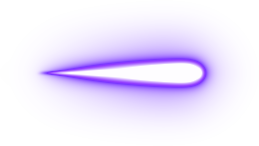
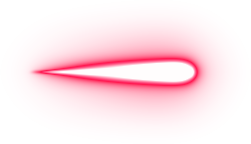
Added enemy projectile

Changed region(s): [[0.1116, 0.2222, 0.8645, 0.7778]]

diff --git a/game.py b/game.py
@@ -8,6 +8,7 @@ class Game:
         self.is_playing = False
         self.all_players = pygame.sprite.Group()
         self.player = Player(self)
+        self.enemy = Enemy(self)
         self.all_players.add(self.player)
         self.comet_event = CometFallEvent(self)
         self.all_enemies = pygame.sprite.Group()
@@ -26,6 +27,10 @@ class Game:
         self.player.health = self.player.max_health
         self.is_playing = False
 
+    def update_enemies_projectiles(self):
+        for enemy in self.all_enemies:
+            enemy.launch_enemies_projectile()
+
     def update(self, screen):
         # intégration de l'image du joueur
         screen.blit(self.player.image, self.player.rect)
@@ -41,15 +46,22 @@ class Game:
         for enemy in self.all_enemies:
             enemy.forward()
             enemy.update_health_bar(screen)
+
+        for enemy_projectile in self.enemy.all_enemies_projectiles:
+            enemy_projectile.move()
             
         for comet in self.comet_event.all_comets:
             comet.fall(screen)
 
-        # intégration de l'image du projectile
+        # intégration de l'image du projectile allié
         self.player.all_projectiles.draw(screen)
+
+        # intégration de l'image du projectile ennemi
+        self.enemy.all_enemies_projectiles.draw(screen)
 
         # intégration de l'image de l'ennemi
         self.all_enemies.draw(screen)
+        self.update_enemies_projectiles()
 
         # intégration de l'image de la comète
         self.comet_event.all_comets.draw(screen)

diff --git a/enemy_projectile.py b/enemy_projectile.py
@@ -1,0 +1,32 @@
+import pygame
+from pygame.sprite import Group
+
+# Classe représentant un projectile
+class EnemyProjectile(pygame.sprite.Sprite):
+    
+    def __init__(self, enemy, game):
+        super().__init__()
+        self.velocity = 20
+        self.enemy = enemy
+        self.game = game
+        self.all_enemies_projectiles = pygame.sprite.Group()
+        self.image = pygame.image.load('assets/projectile_enemy.png')
+        self.image = pygame.transform.scale(self.image, (100, 70))
+        self.rect = self.image.get_rect()
+        self.rect.x = enemy.rect.x - 120
+        self.rect.y = enemy.rect.y - 40
+        
+    def remove_shoots(self):
+        #supprimer le projectile (en dehors de l'écran)
+        self.enemy.all_enemies_projectiles.remove(self)
+
+    def move(self):
+        self.rect.x -= self.velocity
+
+        for player in self.enemy.game.check_collision(self, self.enemy.game.all_players):
+            self.remove_shoots()
+            player.damage(self.enemy.attack)
+        
+        if self.rect.x < 0:
+            self.remove_shoots()
+            print("Projectile supprimé !")

diff --git a/enemy.py b/enemy.py
@@ -1,5 +1,6 @@
 import pygame
 import random
+from enemy_projectile import EnemyProjectile
 
 class Enemy(pygame.sprite.Sprite):
     def __init__(self, game):
@@ -9,11 +10,16 @@ class Enemy(pygame.sprite.Sprite):
         self.max_health = 100
         self.attack = 0.3
         self.velocity = random.randint(1, 2)
+        self.all_enemies_projectiles = pygame.sprite.Group()
         self.original_image = pygame.image.load("assets/spaceship_enemy.png")
         self.image = pygame.transform.scale(self.original_image, (180, 130))
         self.rect = self.image.get_rect()
         self.rect.x = 1000 + random.randint(0, 300)
         self.rect.y = 100 + random.randint(0, 300)
+
+    # méthodes propres à la classe du joueur
+    def launch_enemies_projectile(self):
+        self.all_enemies_projectiles.add(EnemyProjectile(self, self.game))
         
     def damage(self, amount):
         self.health -= amount
@@ -41,3 +47,5 @@ class Enemy(pygame.sprite.Sprite):
             
         else:
             self.game.player.damage(self.attack)
+
+    
